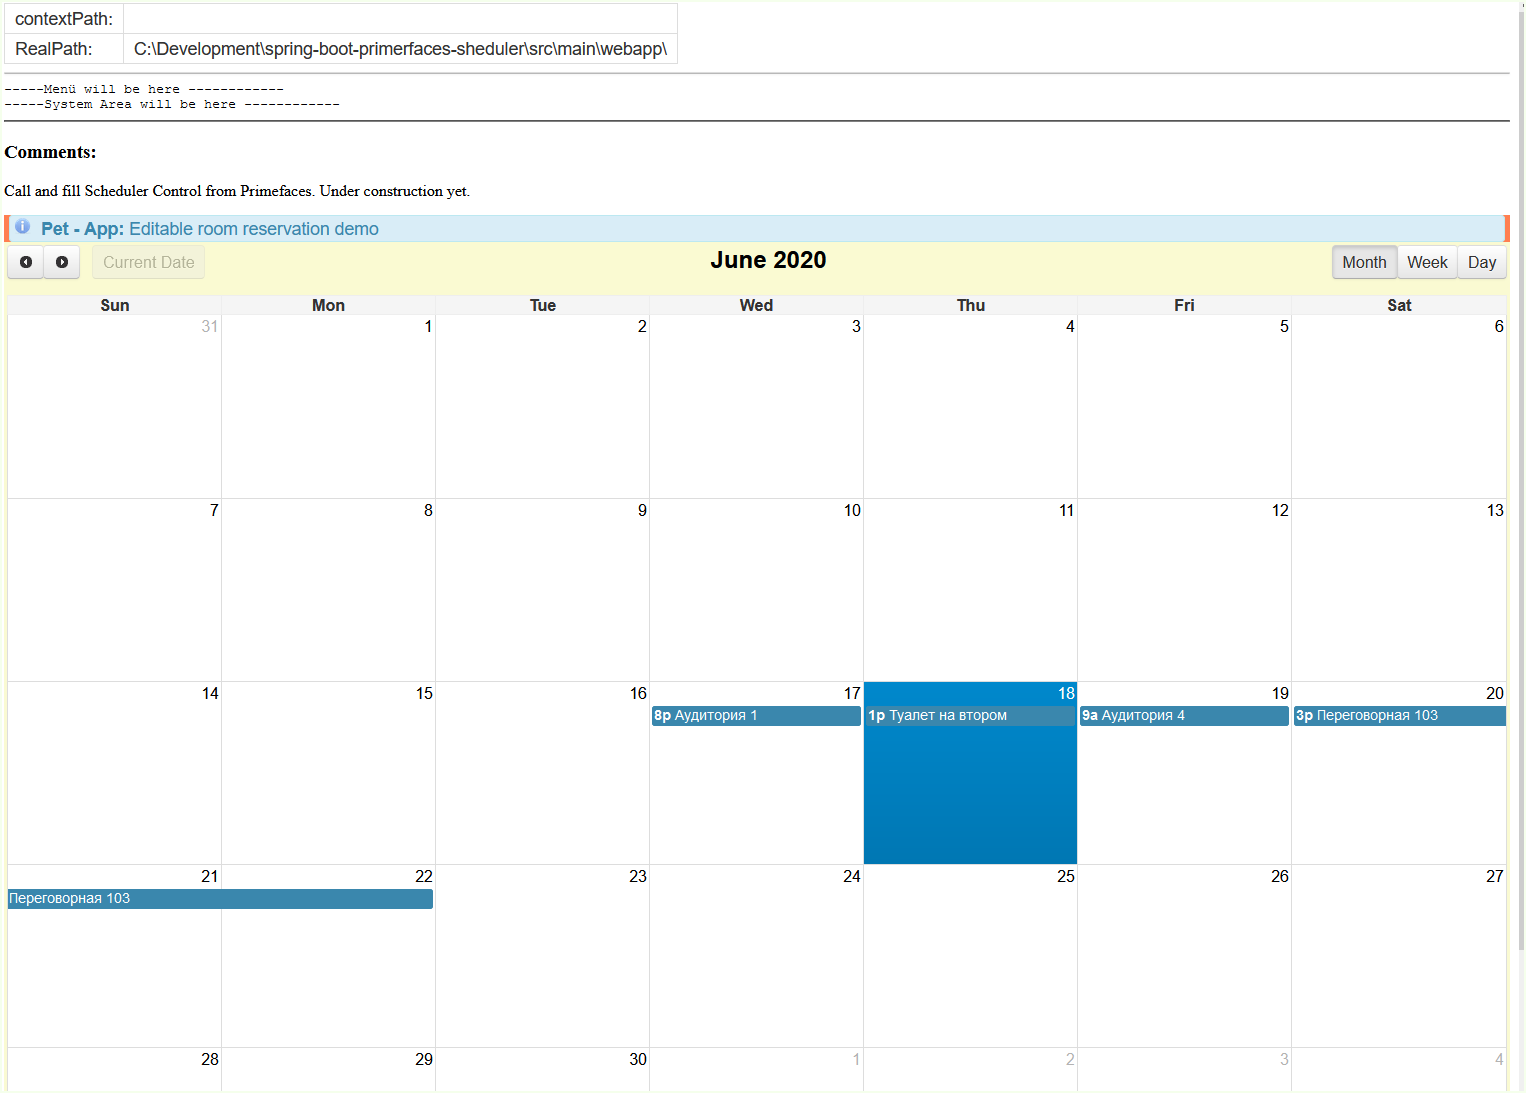
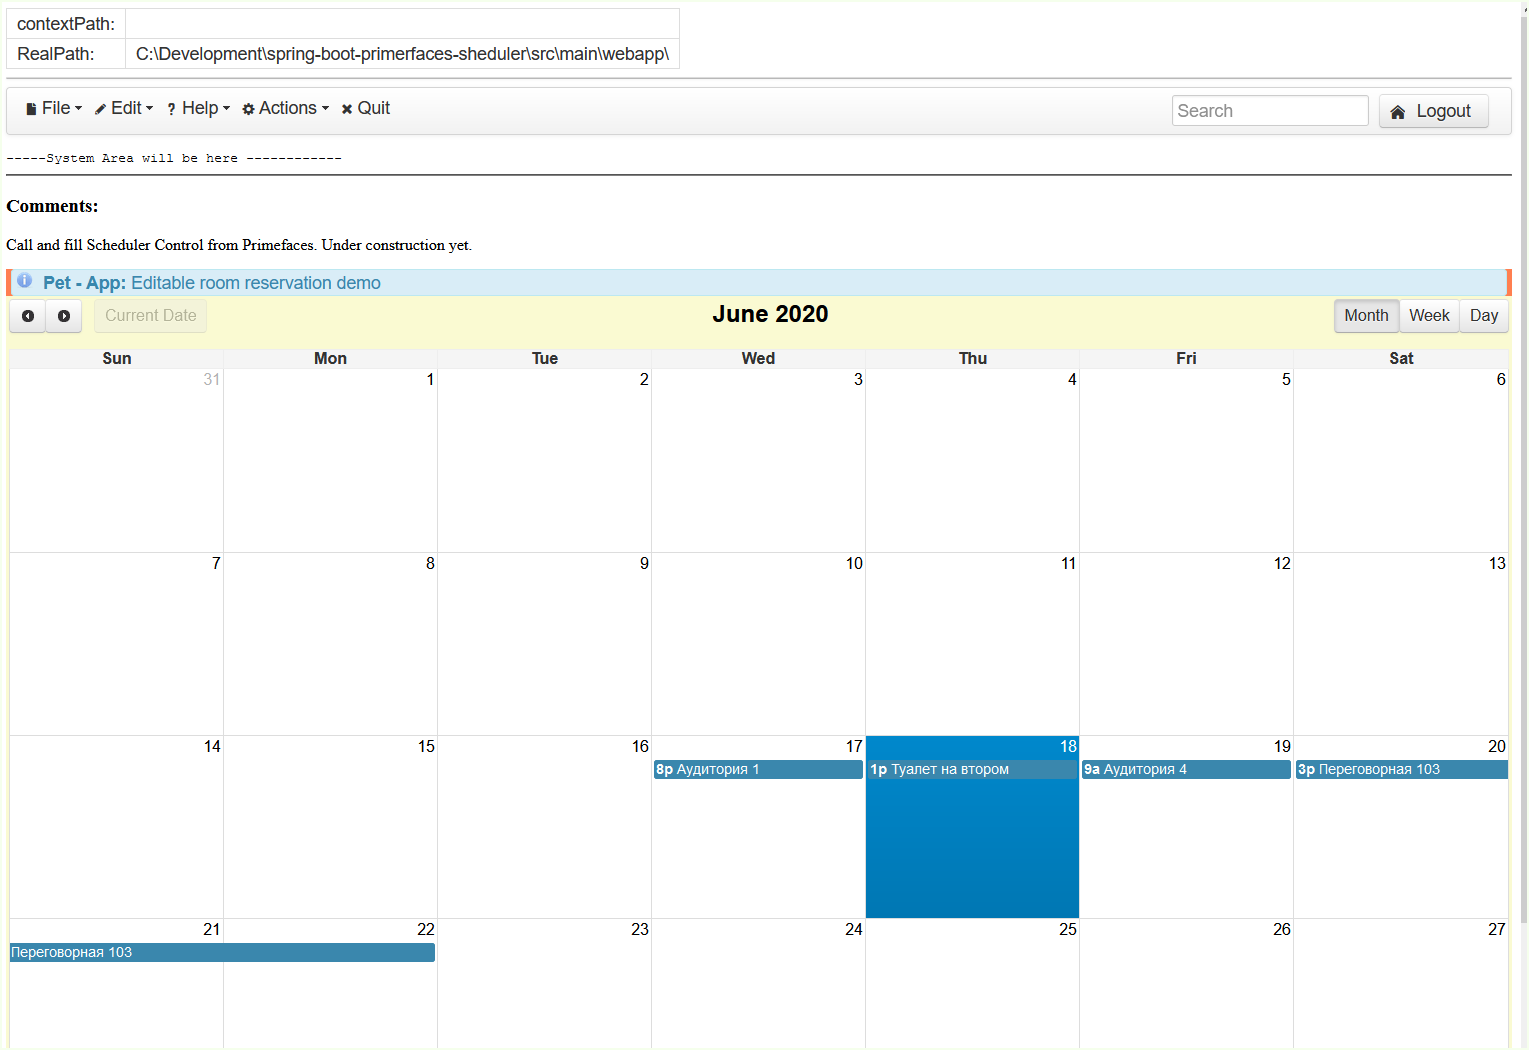
ok/tested: + JSF2 Page Container, Primefaces 7 Menu (from scratch) done

diff --git a/src/main/java/de/senatov/reservatio/view/MenuView.java b/src/main/java/de/senatov/reservatio/view/MenuView.java
@@ -1,0 +1,105 @@
+package de.senatov.reservatio.view;
+
+
+
+import lombok.extern.slf4j.Slf4j;
+import org.primefaces.model.menu.DefaultMenuItem;
+import org.primefaces.model.menu.DefaultMenuModel;
+import org.primefaces.model.menu.DefaultSubMenu;
+import org.primefaces.model.menu.MenuModel;
+import org.springframework.web.context.annotation.RequestScope;
+
+import javax.annotation.ManagedBean;
+import javax.annotation.PostConstruct;
+import javax.faces.application.FacesMessage;
+import javax.faces.context.FacesContext;
+
+
+
+@ManagedBean
+@RequestScope
+@Slf4j
+public class MenuView {
+
+    private MenuModel model;
+
+
+
+    @PostConstruct
+    public void init() {
+
+        model = new DefaultMenuModel();
+        //First submenu
+        DefaultSubMenu firstSubmenu = new DefaultSubMenu();
+        firstSubmenu.setLabel("Dynamic Submenu");
+
+        DefaultMenuItem item = new DefaultMenuItem();
+        item.setValue("FB");
+        item.setUrl("https://www.facebook.com/iakov.senatov");
+        item.setIcon("pi pi-home");
+        firstSubmenu.getElements().add(item);
+
+        model.getElements().add(firstSubmenu);
+        //Second submenu
+        DefaultSubMenu secondSubmenu = new DefaultSubMenu();
+        secondSubmenu.setLabel("Dynamic Actions");
+
+        item = new DefaultMenuItem();
+        item.setValue("Save");
+        item.setIcon("pi pi-save");
+        item.setCommand("#{menuView.save}");
+        item.setUpdate("messages");
+        secondSubmenu.getElements().add(item);
+
+        item = new DefaultMenuItem();
+        item.setValue("Delete");
+        item.setIcon("pi pi-times");
+        item.setCommand("#{menuView.delete}");
+        item.setAjax(false);
+        secondSubmenu.getElements().add(item);
+
+        item = new DefaultMenuItem();
+        item.setValue("Redirect");
+        item.setIcon("pi pi-search");
+        item.setCommand("#{menuView.redirect}");
+        secondSubmenu.getElements().add(item);
+        model.getElements().add(secondSubmenu);
+    }
+
+
+
+    public MenuModel getModel() {
+
+        return model;
+    }
+
+
+
+    public void save() {
+
+        addMessage("Success", "Data saved");
+    }
+
+
+
+    public void update() {
+
+        addMessage("Success", "Data updated");
+    }
+
+
+
+    public void delete() {
+
+        addMessage("Success", "Data deleted");
+    }
+
+
+
+    public void addMessage(String summary, String detail) {
+
+        FacesMessage message = new FacesMessage(FacesMessage.SEVERITY_INFO, summary, detail);
+        FacesContext.getCurrentInstance().addMessage(null, message);
+    }
+
+}

diff --git a/src/main/java/de/senatov/reservatio/view/ScheduleView.java b/src/main/java/de/senatov/reservatio/view/ScheduleView.java
@@ -1,4 +1,4 @@
-package de.senatov.reservatio.schedu;
+package de.senatov.reservatio.view;
 
 
 
@@ -19,7 +19,6 @@ import javax.faces.view.ViewScoped;
 import java.io.Serializable;
 import java.util.Calendar;
 import java.util.Date;
-//import org.
 
 
 
